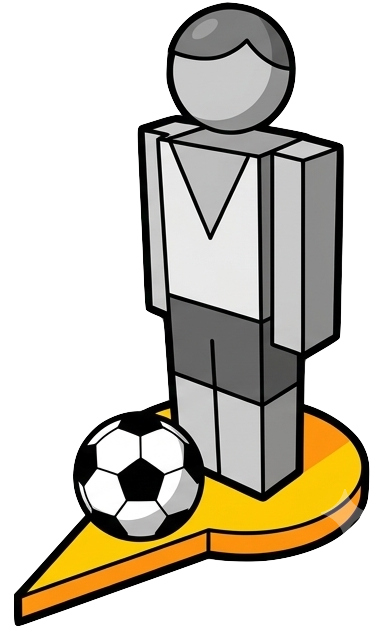
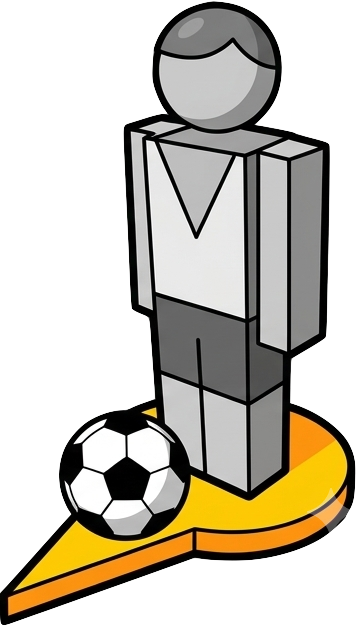
Add files via upload

diff --git a/index.html b/index.html
@@ -2,7 +2,7 @@
 <html lang="en">
 <head>
 <meta charset="utf-8" />
-<meta name="viewport" content="width=device-width, initial-scale=1, maximum-scale=1" />
+<meta name="viewport" content="width=device-width, initial-scale=1" />
 <title>WorldlyCup — Where the World Cup Was Born</title>
 <link rel="icon" type="image/png" href="logo.png" />
 <link rel="apple-touch-icon" href="logo.png" />
@@ -27,7 +27,7 @@
     gap:16px;padding:0 18px;z-index:5;
     background:linear-gradient(90deg,rgba(8,23,38,.96),rgba(8,23,38,.55) 70%,transparent)}
   .brand{font-weight:800;font-size:20px;letter-spacing:.3px;display:flex;align-items:center;gap:9px}
-  .brand .logo{width:30px;height:30px;display:block;filter:drop-shadow(0 0 7px rgba(90,169,230,.45))}
+  .brand .logo{width:45px;height:45px;display:block;filter:drop-shadow(0 0 7px rgba(90,169,230,.45))}
   .tabs{display:flex;gap:6px}
   .navright{margin-left:auto;display:flex;gap:10px;align-items:center}
   .tab{font-size:13.5px;font-weight:600;color:var(--muted);background:transparent;border:1px solid transparent;
@@ -48,7 +48,7 @@
     border:1px solid var(--line);border-radius:18px;padding:16px;z-index:6;
     box-shadow:0 18px 50px rgba(0,0,0,.45)}
   .panel h2{margin:0 0 4px;font-size:13px;text-transform:uppercase;letter-spacing:1.4px;color:var(--muted)}
-  .row{display:flex;gap:8px;margin-top:10px}
+  .row{display:flex;flex-wrap:wrap;gap:8px;margin-top:10px}
   select,button{font-family:var(--font);font-size:14px;border-radius:11px;border:1px solid var(--line);
     background:#10283f;color:var(--ink);padding:10px 12px;cursor:pointer;transition:.15s}
   select{flex:1;appearance:none;background-image:linear-gradient(45deg,transparent 50%,var(--muted) 50%),linear-gradient(135deg,var(--muted) 50%,transparent 50%);
@@ -135,12 +135,12 @@
 <div class="topbar">
   <div class="brand"><img class="logo" src="logo.png" alt="WorldlyCup logo">WorldlyCup</div>
   <div class="tabs">
-    <button class="tab active" data-mode="game">Whose Team?</button>
+    <button class="tab active" data-mode="find">Birthplace Hunt</button>
     <button class="tab" data-mode="guess">Guess the Team</button>
-    <button class="tab" data-mode="find">Birthplace Hunt</button>
+    <button class="tab" data-mode="game">Whose Team?</button>
   </div>
   <div class="navright">
-    <button class="tab subtle" data-mode="explore" title="Browse any team's player origins">Explore ↗</button>
+    <button class="tab subtle" data-mode="explore" title="Browse any team's player origins (not a game)">Just Explore</button>
     <div class="navsep"></div>
     <button class="tab subtle" id="namesBtn" title="Show country names on hover (easy mode)">Country names: off</button>
   </div>
@@ -159,7 +159,7 @@
 </div>
 
 <!-- WHOSE TEAM? -->
-<div class="panel" id="gamePanel">
+<div class="panel" id="gamePanel" style="display:none">
   <div class="scoreline">
     <span>Score <b id="score">0</b></span>
     <span>Solved <b id="solved">0</b>/<b id="played">0</b></span>
@@ -195,12 +195,12 @@
   <div class="result" id="gresult"></div>
 </div>
 
-<!-- BIRTHPLACE HUNT -->
-<div class="panel" id="findPanel" style="display:none">
+<!-- BIRTHPLACE HUNT (default / opens first) -->
+<div class="panel" id="findPanel">
   <div class="scoreline">
     <span>Score <b id="fscore">0</b></span>
     <span>Teams <b id="fdone">0</b></span>
-    <span class="lives" id="flives" title="lives left"></span>
+    <span class="lives" id="flives" title="substitutions left"></span>
   </div>
   <h2>Birthplace hunt</h2>
   <div id="ftitle" style="font-size:16px;font-weight:700;margin:2px 0 6px"></div>
@@ -210,6 +210,7 @@
   </div>
   <div class="row">
     <button class="ghost tiny" id="fhint">⚽ Assist: how many?</button>
+    <button class="ghost tiny" id="fhint2" title="Unlocks when you're down to your last substitution">🌍 Assist: continents?</button>
     <button class="ghost tiny" id="fskip">Reveal &amp; skip</button>
     <button class="primary" id="fnext" style="display:none">Next team ▶</button>
   </div>
@@ -232,7 +233,7 @@ const POS = {GK:'Goalkeeper',DEF:'Defender',MID:'Midfielder',FWD:'Forward',FW:'F
 const AGE_REFERENCE_DATE = new Date('2026-06-29');
 // escape data-derived strings before they go into innerHTML (names/clubs can contain & < > ")
 const esc = s => String(s==null?'':s).replace(/[&<>"]/g, c => ({'&':'&amp;','<':'&lt;','>':'&gt;','"':'&quot;'}[c]));
-let MAP, DATA, GEO, FEAT_BY_ISO={}, mode='game', markers=[];
+let MAP, DATA, GEO, FEAT_BY_ISO={}, mode='find', markers=[];
 let TEAM_BY_ISO={}, POOL=[], used=new Set(), HI={}, hoverOn=false;
 let round=null, score=0, solved=0, played=0;
 let fround=null, fscore=0, fdone=0, flives=3, fused=new Set();
@@ -302,7 +303,7 @@ async function init(){
       o.textContent=`${t.name}  (${t.stats.n_born_abroad}/${t.stats.squad_size} born abroad)`; sel.appendChild(o); });
     const ld=document.getElementById('loading'); if(ld) ld.remove();
     syncBar();
-    newRound();   // open straight into a game — the games are the focus
+    newFindRound();   // open into Birthplace Hunt — the default / most engaging mode
   });
   // map click routes to the active game
   MAP.on('click','country-fill', e=>{ if(!e.features[0]) return;
@@ -336,6 +337,7 @@ async function init(){
   document.getElementById('gnext').onclick=newGuessRound;
   document.getElementById('gskip').onclick=()=>revealGuess(false,'skip');
   document.getElementById('fhint').onclick=findHint;
+  document.getElementById('fhint2').onclick=findHint2;
   document.getElementById('fskip').onclick=()=>endFindRound(false,'skip');
   document.getElementById('fnext').onclick=()=>{ if(flives<=0){ fscore=0; fdone=0; flives=3; fused.clear(); } newFindRound(); };
 }
@@ -438,7 +440,7 @@ function newRound(){
   let cand,guard=0;
   do{ cand=POOL[Math.floor(Math.random()*POOL.length)]; guard++; } while(used.has(cand.p.name)&&guard<200);
   used.add(cand.p.name);
-  round={ p:cand.p, team:cand.team, clues:buildClues(cand.p,cand.team), shown:0, wrongs:0, done:false };
+  round={ p:cand.p, team:cand.team, clues:buildClues(cand.p,cand.team), shown:0, wrongs:0, done:false, wrong:new Set() };
   clearMarkers(); highlightTeams();
   MAP.flyTo({center:[-25,25],zoom:1.05});
   document.getElementById('clues').innerHTML='';
@@ -465,14 +467,15 @@ function updateLives(){ document.getElementById('lives').textContent='●'.repea
 
 function onGuess(iso, name){
   if(!round||round.done) return;
+  if(round.wrong.has(iso)) return;                        // already guessed wrong — ignore repeat clicks
   const team=round.team;
   if(iso===team.iso3){
     const pts=roundPoints(); score+=pts; solved++; played++;
     endRound(true, pts);
   } else {
+    round.wrong.add(iso);
     round.wrongs++; updateLives();
-    setHi(iso,'wrong');                                   // bold red, obvious
-    const r=round; setTimeout(()=>{ if(round!==r||mode!=='game') return; if(TEAM_BY_ISO[iso]) setHi(iso,'team'); else delHi(iso); }, 900);
+    setHi(iso,'wrong');                                   // stays red for the rest of the round
     const left=3-round.wrongs;
     document.getElementById('flash').textContent = left>0
       ? `❌ Not ${name||'there'} — he doesn't play for that country. ${left} ${left===1?'guess':'guesses'} left.`
@@ -537,7 +540,7 @@ function newGuessRound(){
   let team,guard=0;
   do{ team=GUESS_POOL[Math.floor(Math.random()*GUESS_POOL.length)]; guard++; } while(gused.has(team.name)&&guard<200);
   gused.add(team.name); if(gused.size>=GUESS_POOL.length) gused.clear();
-  gstate={ team, clues:buildTeamClues(team), shown:0, misses:0, done:false };
+  gstate={ team, clues:buildTeamClues(team), shown:0, misses:0, done:false, wrong:new Set() };
   clearMarkers(); highlightTeams();
   MAP.flyTo({center:[-25,25],zoom:1.05});
   document.getElementById('gclues').innerHTML='';
@@ -562,13 +565,14 @@ function nextGuessClue(){
 
 function onGuessTeam(iso, name){
   if(!gstate||gstate.done) return;
+  if(gstate.wrong.has(iso)) return;                       // already guessed wrong — ignore repeat clicks
   if(iso===gstate.team.iso3){
     const pts=gRoundPoints(); gscore+=pts; gsolved++; gplayed++;
     revealGuess(true, 'win', pts);
   } else {
+    gstate.wrong.add(iso);
     gstate.misses++; updateGMisses();
-    setHi(iso,'wrong');
-    const g=gstate; setTimeout(()=>{ if(gstate!==g||mode!=='guess') return; if(TEAM_BY_ISO[iso]) setHi(iso,'team'); else delHi(iso); }, 900);
+    setHi(iso,'wrong');                                   // stays red for the rest of the round
     const left=3-gstate.misses;
     document.getElementById('gflash').textContent = left>0
       ? `❌ Not ${name||'there'} — keep scouting. ${left} ${left===1?'guess':'guesses'} left.` : '';
@@ -609,13 +613,26 @@ function revealGuess(win, reason, pts){
 
 /* ---------- BIRTHPLACE HUNT ---------- */
 function updateFLives(){ document.getElementById('flives').textContent='●'.repeat(Math.max(0,flives))+'○'.repeat(3-flives); }
+// the birth countries (answer isos → display names), each flagged found/missed, sorted
+function findCountries(){
+  const inv={}; for(const nm in fround.team.birth_iso3) inv[fround.team.birth_iso3[nm]]=nm;
+  return [...fround.answer]
+    .map(iso=>({name: inv[iso] || (FEAT_BY_ISO[iso]&&FEAT_BY_ISO[iso].properties.NAME) || iso, found: fround.found.has(iso)}))
+    .sort((a,b)=>a.name.localeCompare(b.name));
+}
+// distinct continents of the FOREIGN birth countries (for the "continents" assist)
+function foreignContinents(){
+  const home=fround.team.iso3, conts=new Set();
+  fround.answer.forEach(iso=>{ if(iso!==home){ const f=FEAT_BY_ISO[iso]; if(f&&f.properties.CONTINENT) conts.add(f.properties.CONTINENT); } });
+  return [...conts].sort();
+}
 
 function newFindRound(){
   let team,guard=0;
   do{ team=DATA.teams[Math.floor(Math.random()*DATA.teams.length)]; guard++; } while(fused.has(team.name)&&guard<200);
   fused.add(team.name); if(fused.size>=DATA.teams.length) fused.clear();
   const answer = new Set(Object.values(team.birth_iso3));
-  fround={ team, answer, found:new Set(), strikes:0, done:false, hinted:false };
+  fround={ team, answer, found:new Set(), strikes:0, done:false, hinted:false, hinted2:false, wrong:new Set() };
   clearHi(); clearMarkers();
   setHi(team.iso3,'home');
   MAP.flyTo({center:[-25,25],zoom:1.05,duration:700});
@@ -627,6 +644,9 @@ function newFindRound(){
   document.getElementById('fresult').style.display='none';
   document.getElementById('fnext').style.display='none'; document.getElementById('fnext').textContent='Next team ▶';
   document.getElementById('fhint').disabled=false;
+  // the continents assist only unlocks when you're down to your last substitution
+  document.getElementById('fhint2').disabled = flives!==1;
+  document.getElementById('fhint2').style.display='';
   document.getElementById('fskip').style.display='';
   document.getElementById('fhintTxt').style.display='block';
   updateFLives();
@@ -637,12 +657,13 @@ function renderFindState(){
   if(!fround) return;
   if(!fround.found.has(fround.team.iso3)) HI[fround.team.iso3]='home';
   fround.found.forEach(iso=>HI[iso]='correct');
+  fround.wrong.forEach(iso=>{ if(!fround.found.has(iso)) HI[iso]='wrong'; });   // keep wrong picks red
   if(fround.done) fround.answer.forEach(iso=>{ if(!fround.found.has(iso)) HI[iso]='origin'; });
   renderHi();
 }
 
 function onFindGuess(iso){
-  if(!fround||fround.done||fround.found.has(iso)) return;
+  if(!fround||fround.done||fround.found.has(iso)||fround.wrong.has(iso)) return;   // ignore already-tried
   if(fround.answer.has(iso)){
     fround.found.add(iso);
     setHi(iso,'correct');
@@ -650,10 +671,10 @@ function onFindGuess(iso){
     document.getElementById('fflash').textContent='';
     if(fround.found.size===fround.answer.size) endFindRound(true);
   } else {
+    fround.wrong.add(iso);
     fround.strikes++;
     document.getElementById('fstrikes').textContent='●'.repeat(fround.strikes)+'○'.repeat(3-fround.strikes);
-    setHi(iso,'wrong');
-    const fr=fround; setTimeout(()=>{ if(fround!==fr||mode!=='find') return; delHi(iso); },700);
+    setHi(iso,'wrong');                                   // stays red for the rest of the round
     const left=3-fround.strikes;
     document.getElementById('fflash').textContent = left>0 ? `❌ No player born there. ${left} ${left===1?'miss':'misses'} left.` : '';
     if(fround.strikes>=3) endFindRound(false,'strikeout');
@@ -665,6 +686,13 @@ function findHint(){ if(!fround||fround.done) return;
   document.getElementById('ftotal').textContent=' / '+n;
   document.getElementById('fflash').textContent=`💡 This squad was born across ${n} ${n===1?'country':'countries'} (including home).`;
   document.getElementById('fhint').disabled=true; }
+
+function findHint2(){ if(!fround||fround.done||flives!==1||fround.hinted2) return;
+  fround.hinted2=true; document.getElementById('fhint2').disabled=true;
+  const conts=foreignContinents();
+  document.getElementById('fflash').textContent = conts.length
+    ? `🌍 Players born abroad come from: ${conts.join(', ')}.`
+    : `🌍 Every player was born at home — no foreign continents.`; }
 
 function endFindRound(win, reason){
   fround.done=true;
@@ -678,15 +706,25 @@ function endFindRound(win, reason){
   document.getElementById('fdone').textContent=fdone;
   document.getElementById('ftotal').textContent=' / '+fround.answer.size;
   document.getElementById('fhint').disabled=true;
+  document.getElementById('fhint2').disabled=true;
   document.getElementById('fskip').style.display='none';
   document.getElementById('fhintTxt').style.display='none';
   document.getElementById('fflash').textContent='';
   document.getElementById('fnext').style.display='';
   const missed=fround.answer.size-fround.found.size;
+  const n=fround.answer.size;
   const r=document.getElementById('fresult');
-  if(win){ r.className='result win'; r.innerHTML=`⚽ <b>Full time!</b> <span class="pts">+${pts}</span><br>Found all ${fround.answer.size} birth countries${fround.strikes===0?' with a clean sheet!':'.'}`; }
-  else if(flives<=0){ r.className='result lose'; r.innerHTML=`📣 <b>Final whistle.</b> Final score <span class="pts">${fscore}</span> · ${fdone} teams completed.`; document.getElementById('fnext').textContent='Play again'; }
-  else { r.className='result lose'; r.innerHTML=`${reason==='skip'?'👁 <b>Revealed.</b>':'❌ <b>Three misses.</b>'} ${missed} birthplace${missed===1?'':'s'} left (shown teal).${reason==='strikeout'?' Lost a life.':''}`; }
+  if(win){ r.className='result win'; r.innerHTML=`⚽ <b>Full time!</b> <span class="pts">+${pts}</span><br>Found all ${n} birth countr${n===1?'y':'ies'}${fround.strikes===0?' with a clean sheet!':'.'}`; }
+  else if(flives<=0){ r.className='result lose'; r.innerHTML=`📣 <b>Final whistle.</b> Out of substitutions. Final score <span class="pts">${fscore}</span> · ${fdone} teams completed.`; document.getElementById('fnext').textContent='Play again'; }
+  else {
+    const subword={0:'None',1:'One',2:'Two',3:'Three'}[Math.max(0,flives)];
+    const subBit = reason==='strikeout' ? ` Used one substitution. ${subword} left.` : '';
+    r.className='result lose'; r.innerHTML=`${reason==='skip'?'👁 <b>Revealed.</b>':'❌ <b>Three misses.</b>'} ${missed} birthplace${missed===1?'':'s'} left (shown teal).${subBit}`;
+  }
+  // list every birth country (missed ones in teal, matching the map) so the player can read them
+  const items=findCountries();
+  const listHtml=items.map(it=>it.found?esc(it.name):`<span style="color:var(--teal)">${esc(it.name)}</span>`).join(', ');
+  r.innerHTML += `<div style="margin-top:8px;font-size:12.5px;line-height:1.55"><b>Birth countries (${items.length}):</b> ${listHtml}</div>`;
   r.style.display='block';
   // reveal the squad's actual birthplaces as pins (grouped by city), like the other modes
   clearMarkers();

diff --git a/build_appdata.py b/build_appdata.py
@@ -52,7 +52,17 @@ def country_at(lng, lat):
         for poly in polys:
             if in_ring(lng, lat, poly[0]) and not any(in_ring(lng,lat,h) for h in poly[1:]):
                 return iso, name
-    return None, None
+    # Coastal snap: some birth coords sit just off the simplified 50m coastline (e.g. Liverpool
+    # on the Mersey estuary, or Gulf-coast cities). If the point is inside no country, snap to the
+    # nearest country boundary within ~0.3 deg (~33 km). Prevents orphaned born_iso at the coast.
+    best=None; bestd=0.3*0.3
+    for iso, name, (mnx,mny,mxx,mxy), polys in COUNTRIES:
+        if lng<mnx-0.4 or lng>mxx+0.4 or lat<mny-0.4 or lat>mxy+0.4: continue
+        for poly in polys:
+            for x,y in poly[0]:
+                d=(x-lng)*(x-lng)+(y-lat)*(y-lat)
+                if d<bestd: bestd=d; best=(iso,name)
+    return best if best else (None,None)
 
 # team metadata
 TEAM_META = {}
@@ -63,10 +73,14 @@ if os.path.exists(tcsv):
             "group":t.get("group_letter",""), "confederation":t.get("confederation","")}
 
 # name -> iso (for team home countries) using the geojson + aliases
+# England/Scotland/Wales/N. Ireland are distinct football nations AND distinct map polygons
+# (the UK is split into its constituent countries in countries_50m.geojson), so map each to its
+# own subunit code rather than collapsing to GBR. This makes e.g. an England-born Scotland player
+# correctly count as "born abroad".
 ALIASES = {"USA":"USA","Côte d'Ivoire":"CIV","IR Iran":"IRN","Congo DR":"COD",
     "Cabo Verde":"CPV","Türkiye":"TUR","South Korea":"KOR","Czechia":"CZE",
-    "Bosnia and Herzegovina":"BIH","England":"GBR","Scotland":"GBR","Wales":"GBR",
-    "Northern Ireland":"GBR","Curaçao":"CUW"}
+    "Bosnia and Herzegovina":"BIH","England":"ENG","Scotland":"SCT","Wales":"WLS",
+    "Northern Ireland":"NIR","Curaçao":"CUW"}
 NAME2ISO = {}
 for iso,name,_,_ in COUNTRIES: NAME2ISO[name]=iso
 def iso_of(country):

diff --git a/README.md b/README.md
@@ -7,11 +7,17 @@ allegiance-switch stories (e.g. Morocco players who came up through Dutch and Fr
 systems).
 
 ## Files
-- **`players_worldcup2026.csv`** — the dataset, 1,248 players (48 teams × 26).
-- **`build_dataset.py`** — the reproducible pipeline. `python3 build_dataset.py`
-  (Python 3, stdlib only; needs internet). Caches all Wikidata/Wikipedia responses under
-  `cache/`, so re-runs are fast and resumable. Delete `cache/entities.json` to force a
-  clean re-fetch.
+- **`players_worldcup2026.csv`** — the dataset (canonical, hand-curated), 1,248 players (48 teams × 26).
+- **`build_appdata.py`** — the live pipeline the app uses. Pure transform:
+  `players_worldcup2026.csv` → `app_data.json` (Python 3, stdlib only, no network). Run
+  `python3 build_appdata.py` after any edit to the CSV. It derives each player's birth country
+  from their coordinates (point-in-polygon against `countries_50m.geojson`), never overwrites the CSV.
+- **`index.html`** — the whole app (UI, three games, MapLibre map). Static; just serve the folder.
+- **`countries_50m.geojson`** — Natural Earth country polygons. The UK is split into its constituent
+  countries (England/Scotland/Wales/N. Ireland) so the home nations are distinct teams on the map.
+- **`build_dataset.py`** — **deprecated** original Wikidata/Wikipedia scraper (needs `--force` to run).
+  Kept for methodology reference only; do **not** run it in the normal workflow — it would clobber
+  the hand-curated corrections in the CSV. See `HANDOFF.md`.
 
 ## Columns
 | column | meaning |

diff --git a/HANDOFF.md b/HANDOFF.md
@@ -3,6 +3,17 @@
 Written for whoever (human or agent) picks this up next. Repo: https://github.com/bntcurtis/worldly-cup
 (deployed via Cloudflare Pages from the pushed branch — static site, no build step).
 
+> **STATUS — 2026-06-30: the issues described further down are RESOLVED.** This document is now
+> mostly historical background. Since it was written, the app has been fixed: map-click grading
+> (features carry no id, so clicks read the ISO from properties), pin placement (`.peg` is
+> `position:absolute`), highlight of multi-feature countries (keep the largest feature per ISO),
+> fetch error/loading UI, mobile nav reflow, clue de-duplication + fallback clues, and more. The
+> UK is now **split into England/Scotland/Wales/N. Ireland** as distinct polygons, so the home
+> nations are separate teams (no GBR collapse). Default mode is **Birthplace Hunt**. Any claim
+> below that pin placement, fallback clues, or the England/Scotland collapse are "outstanding" is
+> stale. Data workflow is unchanged: edit `players_worldcup2026.csv`, run `python3 build_appdata.py`,
+> never run `build_dataset.py`.
+
 ## What this is
 
 A WC2026 player-origins explorer + three browser games, built around one dataset: for each of